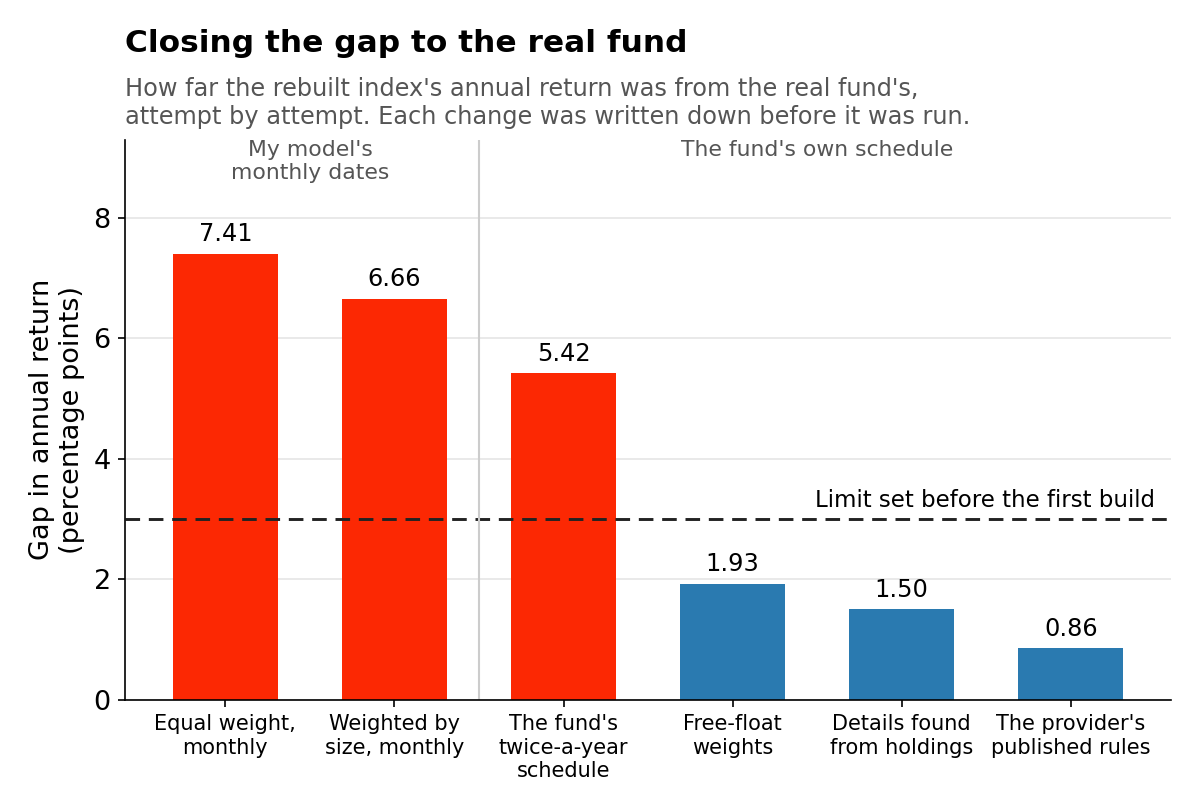
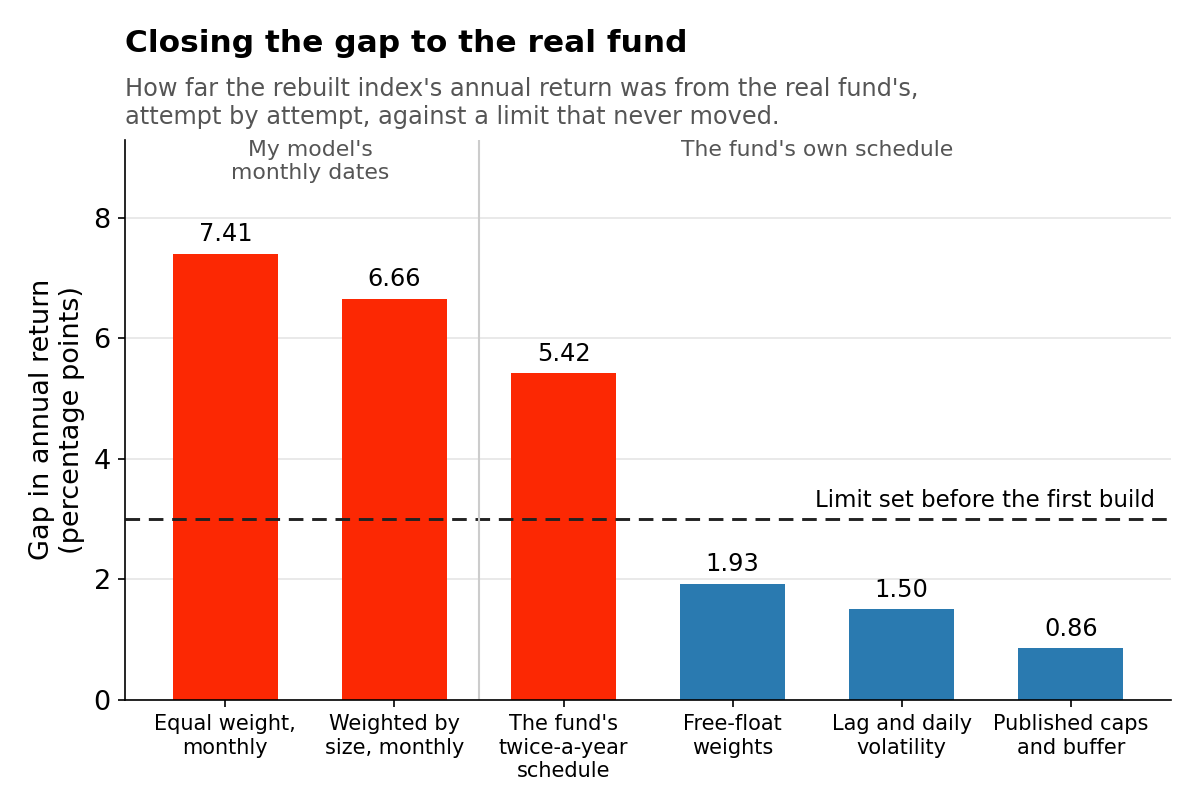
Post 3: correct the holdings-sweep story and the gap chart labels from PR #2707's commits
Claude-Session: https://claude.ai/code/session_01QXEQAc3mBLMkK3QhyLDFNT

Changed region(s): [[0.6783, 0.8642, 0.9558, 0.9568], [0.3083, 0.1235, 0.8017, 0.1543]]

diff --git a/content/posts/backtest-noise.md b/content/posts/backtest-noise.md
@@ -191,7 +191,7 @@ the reason it might close the gap. On the fund's own schedule, and weighted by t
 shares available to public investors (the free float, which is what the index uses,
 rather than every share a company has issued), the replica passed.
 
-{{< figure src="/posts/backtest-noise/gap-to-the-real-fund.png" alt="Bar chart of the gap in annual return between the rebuilt index and the real fund over six attempts: 7.41 and 6.66 percentage points on my model's monthly dates, then 5.42 on the fund's own schedule, all above a dashed limit of 3 set before the first build; then 1.93 with free-float weights, 1.50 with details found from the fund's holdings, and 0.86 with the provider's published rules, all below it." caption="The gap between the rebuilt index and the real fund's annual return, attempt by attempt, against the pre-registered limit of three percentage points. The first two attempts were scored on my model's monthly schedule, the rest on the fund's." >}}
+{{< figure src="/posts/backtest-noise/gap-to-the-real-fund.png" alt="Bar chart of the gap in annual return between the rebuilt index and the real fund over six attempts: 7.41 and 6.66 percentage points on my model's monthly dates, then 5.42 on the fund's own schedule, all above a dashed limit of 3 set before the first build; then 1.93 with free-float weights, 1.50 with the reference-date lag and daily volatility found from the fund's holdings, and 0.86 with the provider's published weight caps and buffer rule, all below it." caption="The gap between the rebuilt index and the real fund's annual return, attempt by attempt, against the pre-registered limit of three percentage points. The first two attempts were scored on my model's monthly schedule, the rest on the fund's." >}}
 
 That being said, I don't think "the thresholds never moved" settles it. A gate you're
 allowed to keep attempting is a search of its own, and with enough attempts, something
@@ -215,18 +215,36 @@ code that matched company names to tickers had been quietly dropping as much as 
 of the fund's holdings, e.g. it turned "Marsh & McLennan Cos." into something that matched
 nothing. The finding survived the second fix, which is what made me trust it.
 
-That left the ranking itself as the problem, and two details of how the index ranks
-stocks were still guesses. The agent couldn't read the index provider's methodology
-document, because the PDF refused automated downloads. So, it swept those two
-parameters and scored each setting by how many of the fund's actual holdings the
-replica matched, never by return. The sweep found a lag of about 42 trading days
-between the measurement date and the rebalance, and that daily volatility worked better
-than weekly. The best lag also did better on the filings held out of the sweep than on
-the ones it was fitted to.
+That left the ranking itself as the problem, and parts of how the index ranks stocks
+were still guesses. The agent couldn't read the index provider's methodology document,
+because the site blocked automated downloads. So, it swept the uncertain parameters and
+scored each setting by how many of the fund's actual holdings the replica matched,
+never by return.
 
-When we did read the methodology's appendix, both were in it. Momentum is
-measured up to two months before the rebalance, which from a late-March rebalance is
-about 42 trading days, and volatility is defined on "daily price returns".
+The first sweep, over how many weeks of volatility to measure, came back flat across a
+tenfold range. That turned out to be the clue: the form was wrong, not the length. A
+line in the fund's own documentation described volatility as measured on daily
+returns, not weekly, and on the holdings, one year of daily returns beat the old
+assumption on the filings held out of the sweep. A shorter window won on the filings
+it was fitted to and lost on the held-out ones, which is the signature of overfitting,
+so the agent took the round one-year value instead.
+
+The second sweep found that the index measures momentum about 42 trading days before
+each rebalance, not on the rebalance date itself. That one moved the share of matching
+companies from about two thirds to about 80%, and again it did better on the held-out
+filings than on the ones it was fitted to.
+
+Neither change was scored on the gate, and the commits report it honestly when the
+gate didn't cooperate. The lag narrowed the return gap while two secondary measures got
+slightly worse, and switching to daily volatility didn't move the return gap at all. It
+was adopted on the documentation and the held-out holdings, not on the result.
+
+Then the methodology document was downloaded by hand. Its appendix confirmed both: momentum
+runs from month-end to month-end ending two months before the rebalance, which from a
+late-March rebalance is about 42 trading days, and volatility is the "standard deviation
+of daily price returns". It also corrected things we'd guessed wrong, including the cap on how much
+any one company can weigh and the order of the rules for keeping existing holdings,
+and those brought the gap to under one percentage point.
 
 This is the most useful lesson I took from the whole exercise. Fitting the same
 parameters to returns would have picked a volatility window that, measured against the
